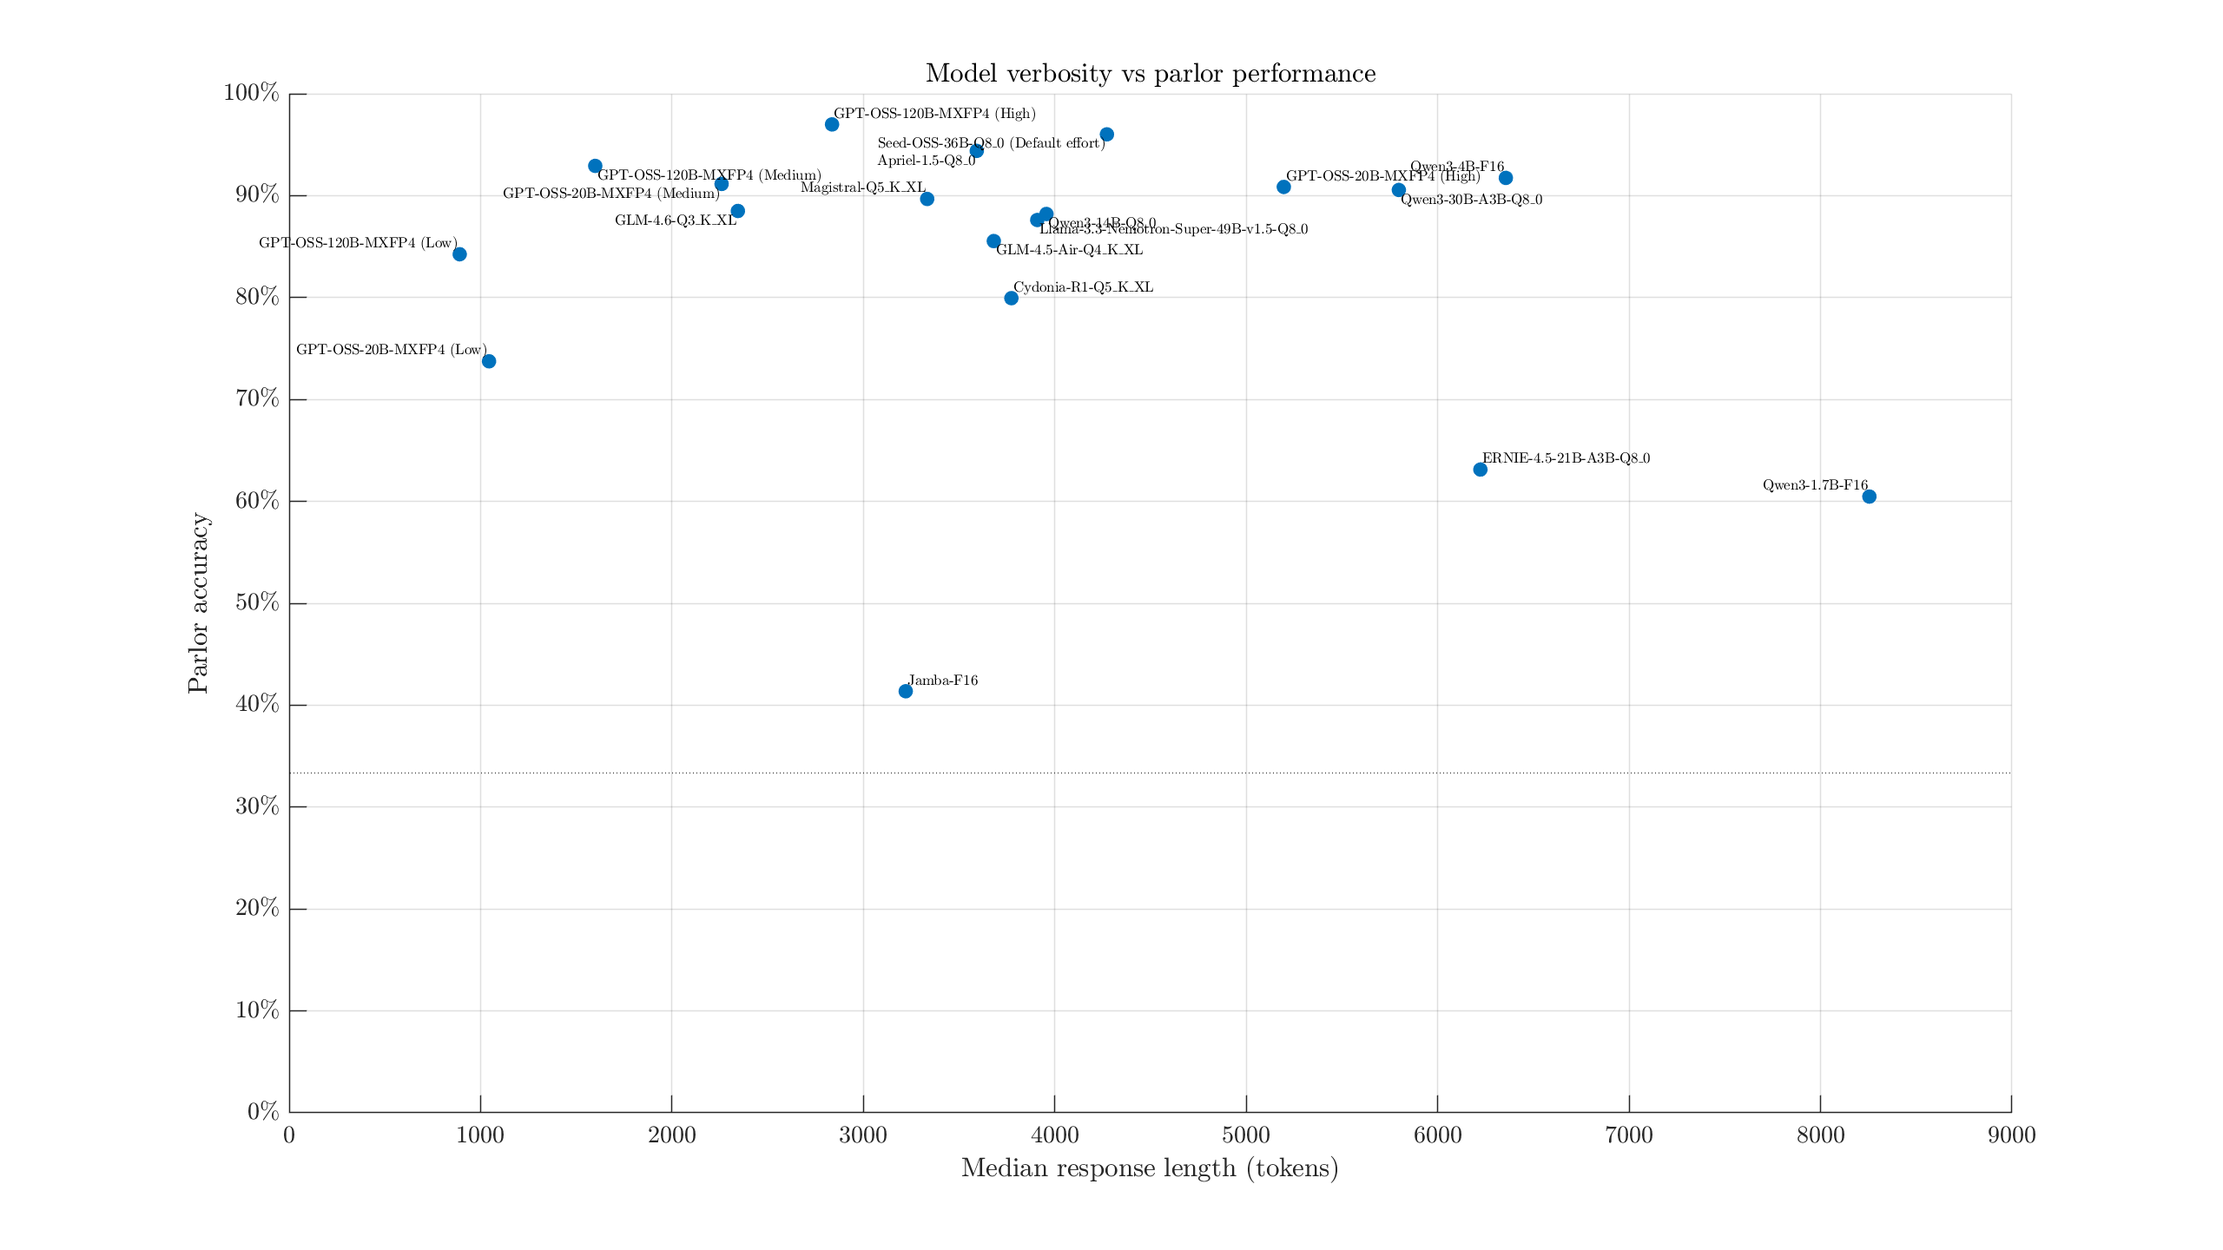
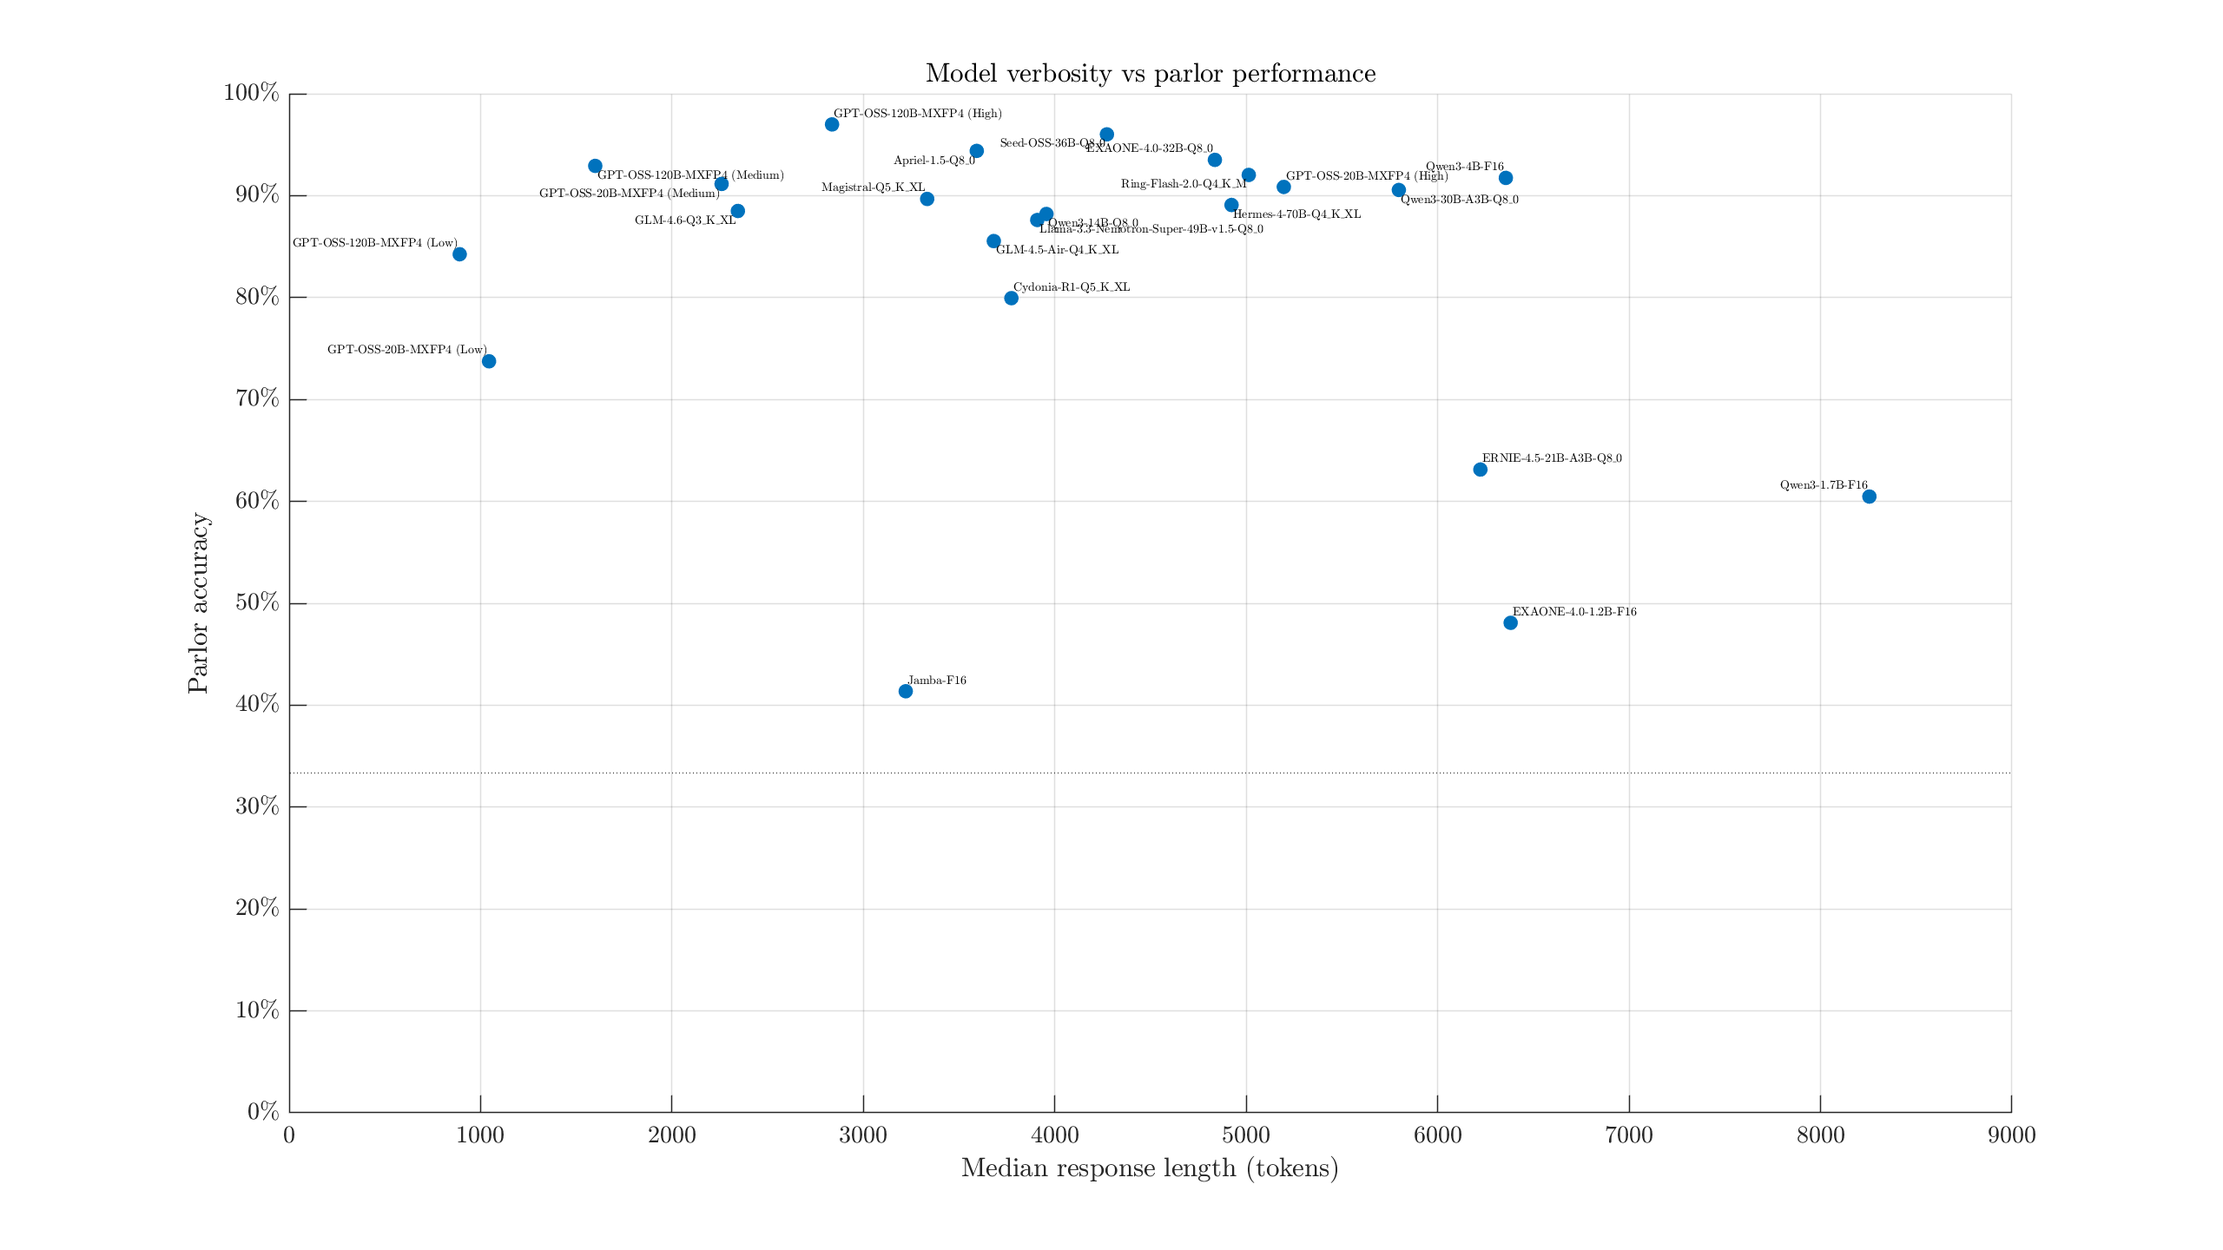
parlor: more models

diff --git a/pages/parlor-reasoning.html b/pages/parlor-reasoning.html
@@ -44,7 +44,7 @@
         <div class="article-container">
             <header class="article-header">
                 <h1>Reasoning LLMs vs the Parlor Puzzle</h1>
-                <div class="meta">By BigStupidJellyfish | 2025-November-02</div>
+                <div class="meta">By BigStupidJellyfish | 2025-November-02 | Updated 2025-November-09</div>
             </header>
 <div class="article-content">
 
@@ -127,7 +127,7 @@
 <p>
 	I've generally been experimenting with language models lately, with <a href="deep-research">mixed</a> <a href="llm-quants">feelings</a>.
 	I have not done this while playing the game (that'd be cheating!) but I wrote down each Parlor Puzzle I encountered after coming up with the idea and started testing a number of "reasoning" language models with the various configurations to see if they'd be able to figure it out as well.
-	I ended up liking this test too much to leave it there, with a few scattered manual tests on a small subset of the questions.
+	I ended up liking this test too much to leave it there, with just a few scattered manual tests on a small subset of the questions.
 	So, I found a set of (likely) all the parlor puzzles in the game and hacked together something to test models on it properly.
 </p>
 <p>
@@ -196,6 +196,30 @@
       <td>63.1%</td> <!-- 214 -->
       <td>6161/6223 tokens</td>
     </tr>
+	<tr>
+      <td><a href="https://huggingface.co/LGAI-EXAONE/EXAONE-4.0-1.2B">EXAONE-4.0</a></td>
+	  <td>1.2B</td>
+	  <td>F16</td>
+      <td>113*3</td>
+      <td>48.1%</td> <!-- 163/339 -->
+      <td>6546/6381 tokens</td>
+    </tr>
+	<tr>
+      <td><a href="https://huggingface.co/LGAI-EXAONE/EXAONE-4.0-32B">EXAONE-4.0</a></td>
+	  <td>32B</td>
+	  <td>Q8_0</td>
+      <td>113*3</td>
+      <td>93.5%</td> <!-- 317/339 -->
+      <td>6133/4836 tokens</td>
+    </tr>
+	<tr>
+      <td><a href="https://huggingface.co/LGAI-EXAONE/EXAONE-4.0.1-32B">EXAONE-4.0.1</a></td>
+	  <td>32B</td>
+	  <td>Q8_0</td>
+      <td>113*3</td>
+      <td>92.6%</td> <!-- 315/339 -->
+      <td>6120/4500 tokens</td>
+    </tr>
 	<!-- <tr>
       <td><a href="https://huggingface.co/TheDrummer/Gemma-3-R1-12B-v1">Gemma3 R1</a></td>
 	  <td>12B</td>
@@ -237,46 +261,6 @@
       <td>21.2/17 seconds</td>
     </tr>
 	<tr>
-      <td><a href="https://huggingface.co/openai/gpt-oss-20b">GPT-OSS-20B</a> (Reasoning: low)</td>
-	  <td>20B</td>
-	  <td>MXFP4</td>
-      <td>113*3</td>
-      <td>73.7%</td>
-      <td>1242/1044 tokens</td>
-    </tr>
-	<tr>
-      <td><a href="https://huggingface.co/openai/gpt-oss-20b">GPT-OSS-20B</a> (Reasoning: medium)</td>
-	  <td>20B</td>
-	  <td>MXFP4</td>
-      <td>113*3</td>
-      <td>91.2%</td> <!-- 309/339-->
-      <td>3828/2259 tokens</td>
-    </tr>
-	<tr>
-      <td><a href="https://huggingface.co/openai/gpt-oss-20b">GPT-OSS-20B</a> (Reasoning: high)</td>
-	  <td>20B</td>
-	  <td>MXFP4</td>
-      <td>113*3</td>
-      <td>90.9%</td> <!-- 308/339 -->
-      <td>7836/5196 tokens</td>
-    </tr>
-	<tr>
-      <td><a href="https://huggingface.co/openai/gpt-oss-120b">GPT-OSS-120B</a> (Reasoning: low)</td>
-	  <td>120B</td>
-	  <td>MXFP4</td>
-      <td>113*5</td>
-      <td>84.2%</td> <!-- 476/565 -->
-      <td>1042/891 tokens</td>
-    </tr>
-	<tr>
-      <td><a href="https://huggingface.co/openai/gpt-oss-120b">GPT-OSS-120B</a> (Reasoning: medium)</td>
-	  <td>120B</td>
-	  <td>MXFP4</td>
-      <td>113*5</td>
-      <td>92.9%</td> <!-- 525/565 -->
-      <td>2168/1599 tokens</td>
-    </tr>
-	<tr>
       <td><a href="https://huggingface.co/openai/gpt-oss-120b">GPT-OSS-120B</a> (Reasoning: high)</td>
 	  <td>120B</td>
 	  <td>MXFP4</td>
@@ -285,12 +269,12 @@
       <td>4001/2836 tokens</td>
     </tr>
 	<tr>
-      <td><a href="https://huggingface.co/openai/gpt-oss-120b">GPT-OSS-120B</a>** (batch size 10)</td>
-	  <td>120B</td>
-	  <td>MXFP4</td>
-      <td>113*1</td>
-      <td>94.7%</td> <!-- /113 -->
-      <td>3721 avg tokens</td>
+      <td><a href="https://huggingface.co/NousResearch/Hermes-4-70B">Hermes-4-70B</a></td>
+	  <td>70B</td>
+	  <td>Q4_K_XL</td>
+      <td>113*3</td>
+      <td>89.1%</td> <!-- 302/339 -->
+      <td>6085/4923 tokens</td>
     </tr>
 	<tr>
       <td><a href="https://huggingface.co/nvidia/Llama-3_3-Nemotron-Super-49B-v1_5">Llama-3.3-Nemotron-Super-49B-v1.5</a></td>
@@ -317,7 +301,7 @@
       <td>1891/1749 tokens</td>
     </tr>
 	<tr>
-      <td><a href="https://huggingface.co/Qwen/Qwen3-1.7B">Qwen3-1.7B (thinking on)</a></td>
+      <td><a href="https://huggingface.co/Qwen/Qwen3-1.7B">Qwen3-1.7B (thinking)</a></td>
 	  <td>1.7B</td>
 	  <td>F16</td>
       <td>113*3</td>
@@ -333,7 +317,7 @@
       <td>7481/6356 tokens</td>
     </tr>
 	<tr>
-      <td><a href="https://huggingface.co/Qwen/Qwen3-14B">Qwen3-14B (thinking on)</a></td>
+      <td><a href="https://huggingface.co/Qwen/Qwen3-14B">Qwen3-14B (thinking)</a></td>
 	  <td>14B</td>
 	  <td>Q8</td>
       <td>113*3</td>
@@ -355,6 +339,14 @@
       <td>113*3</td>
       <td>90.6%</td> <!-- 307/339 -->
       <td>7023/5797 tokens</td>
+    </tr>
+	<tr>
+      <td><a href="https://huggingface.co/inclusionAI/Ring-flash-2.0">Ring-Flash-2.0</a></td>
+	  <td>100B</td>
+	  <td>Q4_K_M</td>
+      <td>113*3</td>
+      <td>92.0%</td> <!-- /339 -->
+      <td>6604/5013 tokens</td>
     </tr>
 	<tr>
       <td><a href="https://huggingface.co/ByteDance-Seed/Seed-OSS-36B-Instruct">Seed-OSS-36B</a></td>
@@ -400,6 +392,30 @@
 	Ideally, we'd want a model in the top left: high accuracy, few tokens to get there.
 	GPT-OSS-120B most clearly occupies that spot.
 </p>
+<p>
+	We could also try relating the scores on this benchmark to that on some more mainstream benchmarks.
+	For this chart, I'm referencing <a href="https://artificialanalysis.ai/">Artificial Analysis</a> scores:
+</p>
+<center><div class="figure">
+	<img src="images/parlor-reasoning/parlor-vs-aaii.png" width="100%"/>
+</div></center>
+<p>
+	I don't love that site much, in particular for how strongly its scoring favors reasoning models.
+	But as we're focused on reasoning models here anyways, it seems fair enough as a popular resource/reference point.
+	My general interpretation here would be that models in the top-left area perform <em>better</em> on parlor puzzles than on standard benchmarks, while models in the bottom-right area perform <em>worse</em> on these parlor puzzles than they do on standard benchmarks.
+</p>
+<p>
+	The two metrics are reasonably correlated, which is nice to see.
+</p>
+<p>
+	Artificial Analysis scores presumably represent the full precision of each model.
+	Parlor accuracy scores, and plotted points, are run with the quants described.
+	For instance, we could reasonably expect the GLM-4.6 at Q3 to technically have a slightly lower intelligence index score.
+	Many of the models were tested at Q4+, many at Q8, so I think it should be close enough overall.
+	I used the "medium" reasoning effort AAII score (61) to place GPT-5-Thinking-Mini.
+	They do not seem to have a score for low, and high is marginally higher at 64.
+	I did not specify a reasoning effort when doing this, if they even listen to the user prompt for that.
+</p>
 <span class="anchor" id="specific-models"></span>
 <h2>Model Commentary<sup><small><a href="#specific-models">&#35;</a></small></sup></h2>
 <p>
@@ -411,9 +427,9 @@
 	It barely does better than random guessing, and was much worse than even the 1.7B Qwen on this task.
 	Its responses were well-formatted English, so I doubt sampler settings could account for the discrepancy.
 	I also have <a href="llm-quants#temp">yet to see</a> evidence of temperature being a crucial factor.
-	To show how far off it is, here's one example final answer, after reasoning for ~4k tokens:
+	<!-- To show how far off it is, here's one example final answer, after reasoning for ~4k tokens: -->
 </p>
-<blockquote>
+<!-- <blockquote>
 <p>
 	The only way to satisfy the conditions is by assuming the white box contains the prize. Its statement “THE OTHER TWO BOXES CONTAIN GEMS.” is true, while the other two boxes’ statements are false. This fits the requirement of at least one true and one false statement.
 </p>
@@ -422,8 +438,8 @@
 </p>
 </blockquote>
 <p>
-	The blue box in this case asserted that all three boxes contain gems, obviously also false. The black box asserted that it contained gems, which must then be the sole true statement.
-	Another response helpfully explained "Assuming the Blue box is telling the truth, then the Black box contains gems.[...]Thus the prize is in the Blue box."
+	The blue box in this case asserted that all three boxes contain gems, obviously also false. The black box asserted that it contained gems, which must then be the sole true statement. -->
+	One response helpfully explained "Assuming the Blue box is telling the truth, then the Black box contains gems.[...]Thus the prize is in the Blue box."
 	In one of the easiest puzzles, we have an even more local contradiction: "White box’s false claim “THIS BOX IS EMPTY” confirms it is not the prize container."
 </p>
 <p>
@@ -452,6 +468,15 @@
 	I included it in this test because I was curious if that added thinking would still improve performance on other subjects.
 	It showed some improvement from Mistral Small, but was not on the level of Magistral.
 </p>
+<h3>EXAONE</h3>
+<p>
+	The 1.2B version was a bit worse than Qwen3-1.7B, but it's also a bit smaller than the Qwen model.
+</p>
+<p>
+	I'm somewhat curious what really changed between 4.0 and 4.0.1 (their statement is that it's "a patch version to reduce unintended or inappropriate responses," whatever that means).
+	While the score turned out slightly lower with 4.0.1, it's only two additional errors.
+	I can't claim any detectable difference/dumbing down yet.
+</p>
 <h3>**Gemini-2.5-Pro</h3>
 <p>
 	Take these results with a grain of salt!
@@ -461,8 +486,6 @@
 <p>
 	It is more to compute in one go, so token/reason limits could cause hard stops.
 	The grouping of the questions (difficulty-wise) would also affect this.
-</p>
-<p>
 	On the other hand, the model may be able to apply information/logic from one solution to another, or get additional context clues.
 </p>
 <p>
@@ -473,8 +496,8 @@
 </p>
 <h3>GLM</h3>
 <p>
-	I have really been liking GLM 4.6.
-	It's by far the best-scoring model on my in-progress fact-based testing, and overall seems to give great results.
+	<!-- I have really been liking GLM 4.6. -->
+	GLM 4.6 has been by far the best-scoring model on my in-progress fact-based testing, and overall seems to give great results.
 	Its answers were formatted more consistently than any other model.
 	However, it and the 4.5-Air version scored quite horribly on this test, considering their size!
 </p>
@@ -493,36 +516,119 @@
 </p>
 <h3>GPT-OSS</h3>
 <p>
-	These models took some fiddling to get them to pay attention to the reasoning levels.
-	Interestingly, GPT-OSS-20B actually performed (by 1 question) worse on "high" than on "medium."
-	This could largely be attributed to the token limit: "medium" timed out ~3 times, while "high" timed out ~10 times.
-	As the limit was 24000 tokens and these puzzles are not <em>that</em> complicated, fundamentally, I'm not sure how much adding more tokens would help.
+	The reasoning effort setting gives us a whole bunch of configurations, so I've copied over its best result and included the rest here:
 </p>
+<table>
+  <thead>
+    <tr>
+      <th>Model</th>
+	  <th>Effort</th>
+	  <th>Parameters</th>
+	  <th>Quantization</th>
+      <th>Parlors Puzzled</th>
+      <th>Score (% correct)</th>
+      <th>Avg/Median Response length</th>
+    </tr>
+  </thead>
+  <tbody>
+<tr>
+      <td><a href="https://huggingface.co/openai/gpt-oss-20b">GPT-OSS-20B</a></td>
+	  <td>Low</td>
+	  <td>20B</td>
+	  <td>MXFP4</td>
+      <td>113*3</td>
+      <td>73.7%</td>
+      <td>1242/1044 tokens</td>
+    </tr>
+	<tr>
+      <td></td>
+	  <td>Medium</td>
+	  <td>20B</td>
+	  <td>MXFP4</td>
+      <td>113*3</td>
+      <td>91.2%</td> <!-- 309/339-->
+      <td>3828/2259 tokens</td>
+    </tr>
+	<tr>
+      <td></td>
+	  <td>High</td>
+	  <td>20B</td>
+	  <td>MXFP4</td>
+      <td>113*3</td>
+      <td>90.9%</td> <!-- 308/339 -->
+      <td>7836/5196 tokens</td>
+    </tr>
+	<tr>
+      <td><a href="https://huggingface.co/openai/gpt-oss-120b">GPT-OSS-120B</a></td>
+	  <td>Low</td>
+	  <td>120B</td>
+	  <td>MXFP4</td>
+      <td>113*5</td>
+      <td>84.2%</td> <!-- 476/565 -->
+      <td>1042/891 tokens</td>
+    </tr>
+	<tr>
+      <td></td>
+	  <td>Medium</td>
+	  <td>120B</td>
+	  <td>MXFP4</td>
+      <td>113*5</td>
+      <td>92.9%</td> <!-- 525/565 -->
+      <td>2168/1599 tokens</td>
+    </tr>
+	<tr>
+      <td></td>
+	  <td>High</td>
+	  <td>120B</td>
+	  <td>MXFP4</td>
+      <td>113*5</td>
+      <td>97.0%</td> <!-- 548/565 -->
+      <td>4001/2836 tokens</td>
+    </tr>
+	<tr>
+      <td>120B** (batch size 10)</td>
+	  <td>High</td>
+	  <td>120B</td>
+	  <td>MXFP4</td>
+      <td>113*1</td>
+      <td>94.7%</td> <!-- /113 -->
+      <td>3721 avg tokens</td>
+    </tr>
+  </tbody>
+</table>
 <p>
+	<!-- These models took some fiddling to get them to pay attention to the reasoning levels. -->
+	GPT-OSS-20B actually performed (by 1 question) worse on "high" than on "medium."
+	This could largely be attributed to the token limit: "medium" timed out ~3 times, while "high" timed out ~10 times.
+	As the limit was a rather generous 24000 tokens and these puzzles are not <em>that</em> complicated, fundamentally, I'm not sure how much adding more tokens would help.
 	The 120B model's high setting performed much better (97%), and is the current best.
+</p>
+<!-- <p>
 	"Medium" was not too impressive compared to the 20B version, only really improving in terms of token efficiency.
 	At least the "high" reasoning effort really did perform, making ~25% less errors than the next-best offline model.
-</p>
+</p> -->
 <p>
 	It's also notably a better score than the GPT-5-Thinking-Mini model, which is limited to ~10 messages every few hours without paying.
 	The OSS models lack certain features (image recognition) and would need setup for others (tool integration), but are surprisingly competitive for this sort of task.
 	Just make sure it's set to high, and make sure it's actually listening to that setting.
 </p>
-<p>
+<!-- <p>
 	These models seemed more likely than others to give "ambiguous"/"cannot be determined" answers.
 	On one hand, fake confidence can be quite harmful.
 	On the other, as each puzzle should have one unique solution, coming up with an "ambiguous" situation is a good sign you made an error in your reasoning, and you should backtrack and try something else until you can resolve the gems to a single box.
-	<!-- I'll at least credit the 120B for being good at this logical reasoning puzzle (on high reasoning effort). -->
-	I have some <a href="images/parlor-reasoning/effects-arent-copyrighted-anyways.png">other reasons</a> to dislike these models for many uses, but I am quite pleased with how they did here.
-</p>
+	I'll at least credit the 120B for being good at this logical reasoning puzzle (on high reasoning effort).
+</p> -->
 <p>
 	**In connection with the Gemini-2.5-Pro batched test, I ran a set on GPT-OSS-120B, to get a sense for just how cruel asking a model to solve ten of these in one go is.
 	In this case, I loaded the model with max context and removed any response length limit. Reasoning: high, of course.
-	It used, in total, 420429 tokens for a score of 94.7% (3721 tokens per problem, highest per set was 74074).
-	For reference, its reasoning: high/one-by-one runs used on average 4000 tokens per problem, 97.0%.
+	<!-- It used, in total, 420429 tokens for a score of 94.7% (3721 tokens per problem, highest per set was 74074).
+	For reference, its reasoning: high/one-by-one runs used on average 4000 tokens per problem, 97.0%. -->
 	I was not expecting it to scale this well, and it even managed to beat Gemini-2.5-Pro with this setup.
 	(Of course, with the limited sample size, I can't definitively claim GPT-OSS is truly better on this task - but it's at least competitive.
 	Gemini-2.5-Pro certainly has advantages and better performance on a number of other subjects.)
+</p>
+<p>
+	I have some <a href="images/parlor-reasoning/effects-arent-copyrighted-anyways.png">other reasons</a> to dislike these models for many uses, but I am quite pleased with how they did here.
 </p>
 <!--
 Batch 1: 10546
@@ -560,7 +666,6 @@ Batch final 3: 43317
 <p>
 	Very promising!
 	Its 96% is the second highest score, also beating the online GPT-5-Thinking-Mini.
-	<!-- I didn't run as many trials due to time constraints, but this might be worth diving deeper in to with its adjustable reasoning budget. -->
 	It only timed out two times (in 2x113 runs), both on the same puzzle:
 </p>
 <ul>
@@ -580,7 +685,7 @@ The statement matching this statement is on a completely true box."
 	The reasoning traces largely seemed to struggle to understand what a "matching" statement is.
 </p>
 <p>
-	Amusingly, the Q4 timed out only once on a separate problem, and got this one right on one of its two attempts.
+	Amusingly, the Q4 timed out only once on a separate problem, and got the above problem right on one of its two attempts.
 	Total score was unchanged between quants.
 </p>
 <p>
